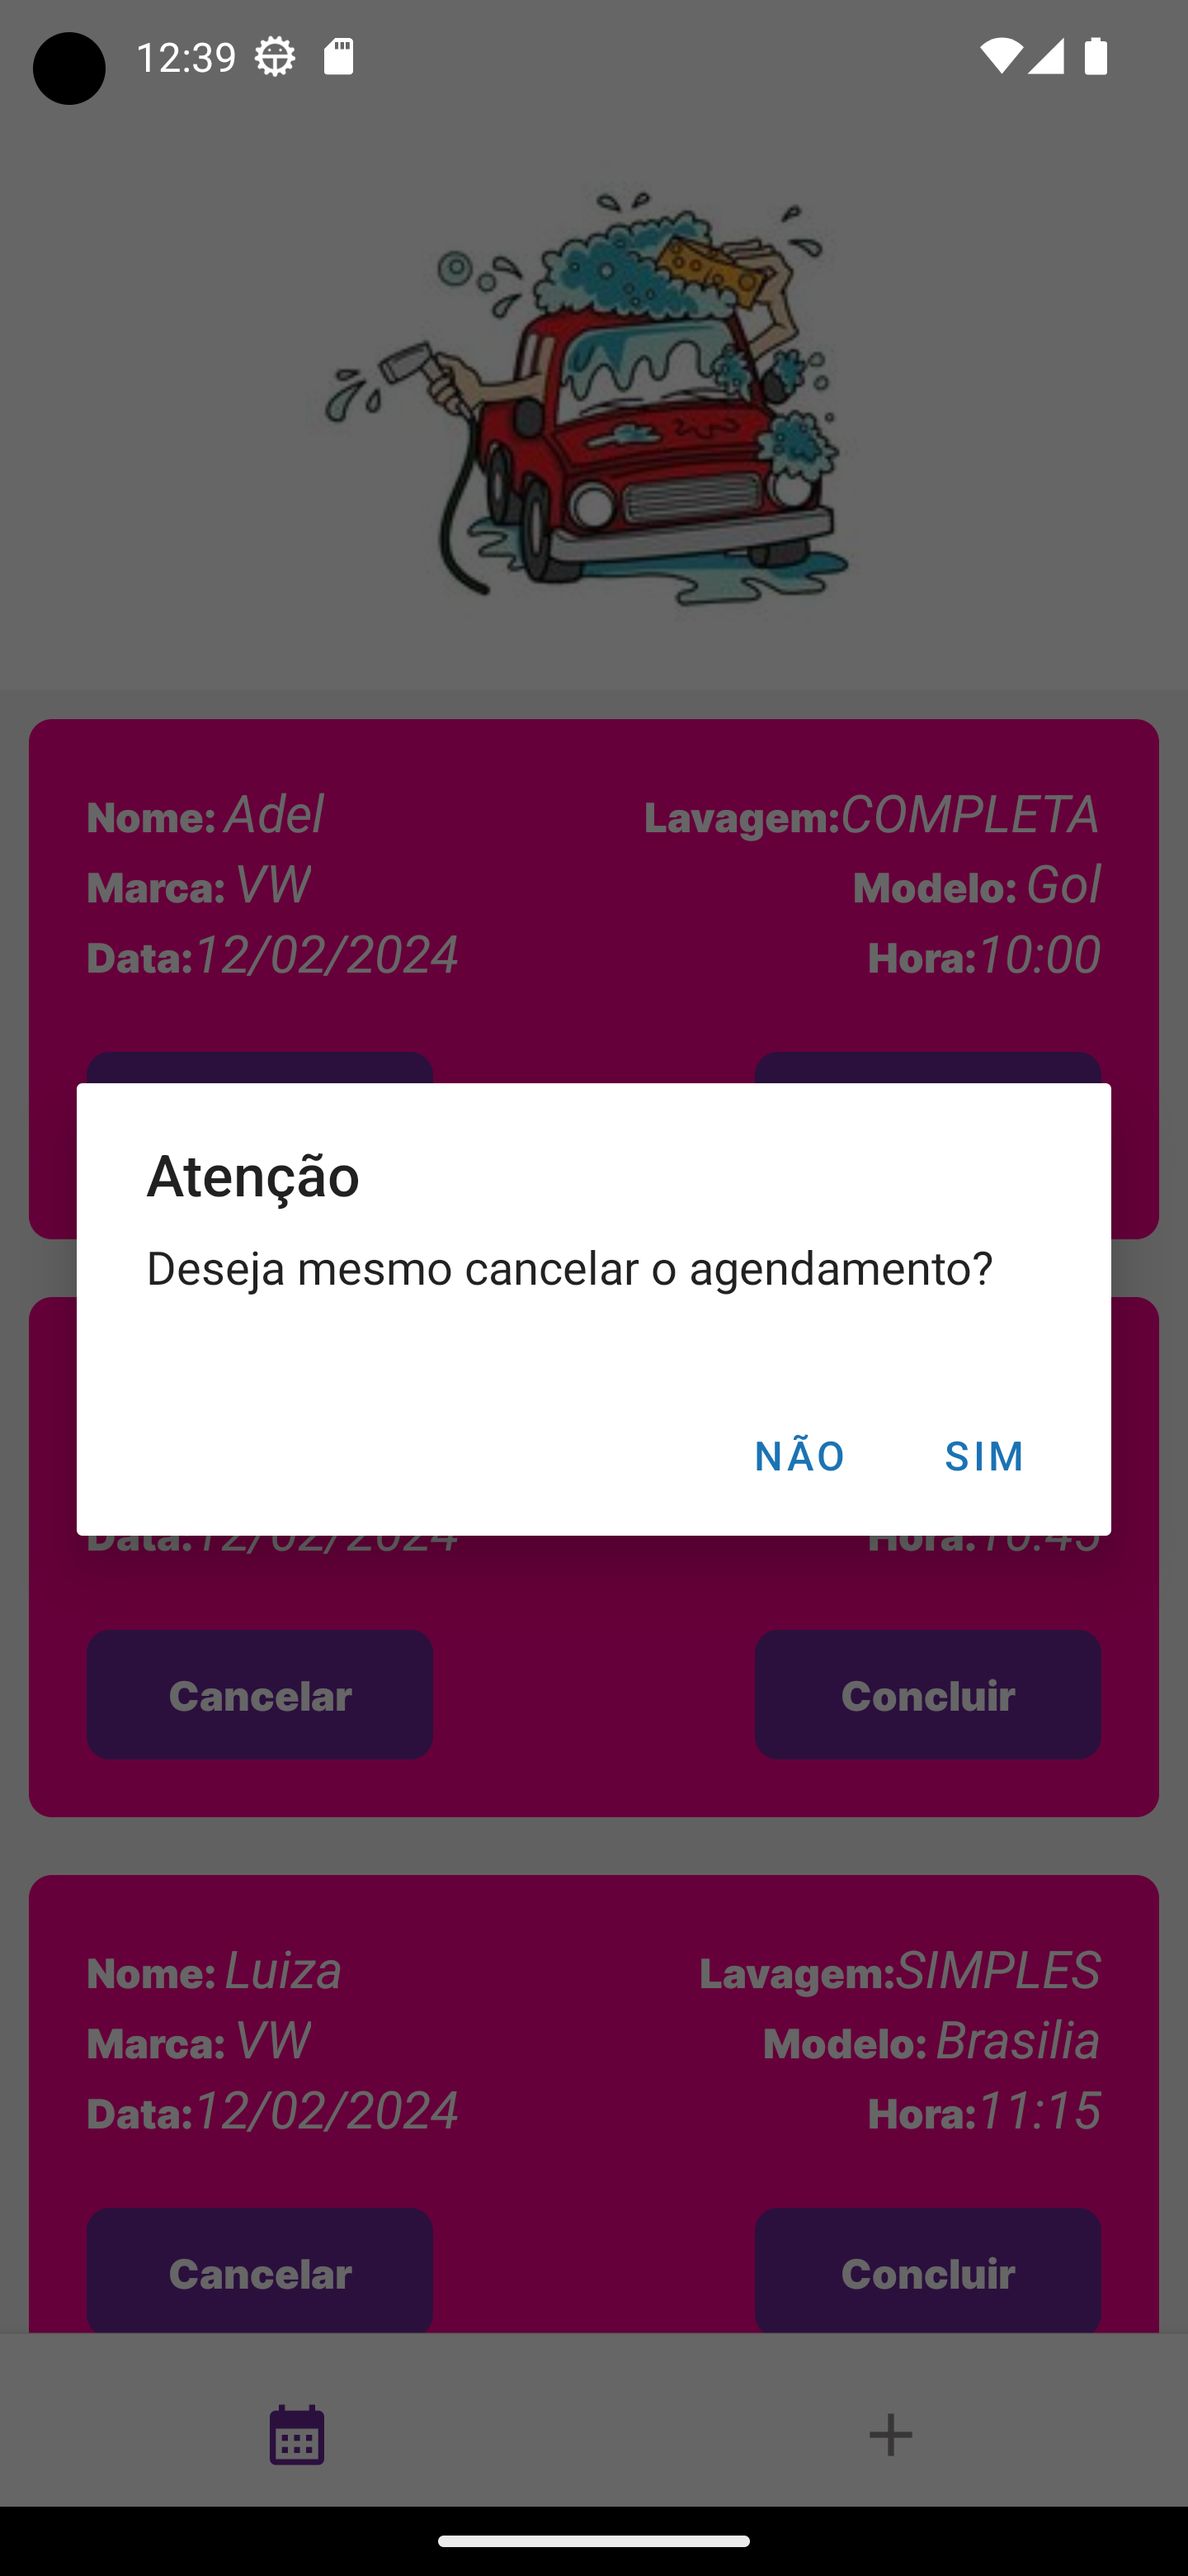
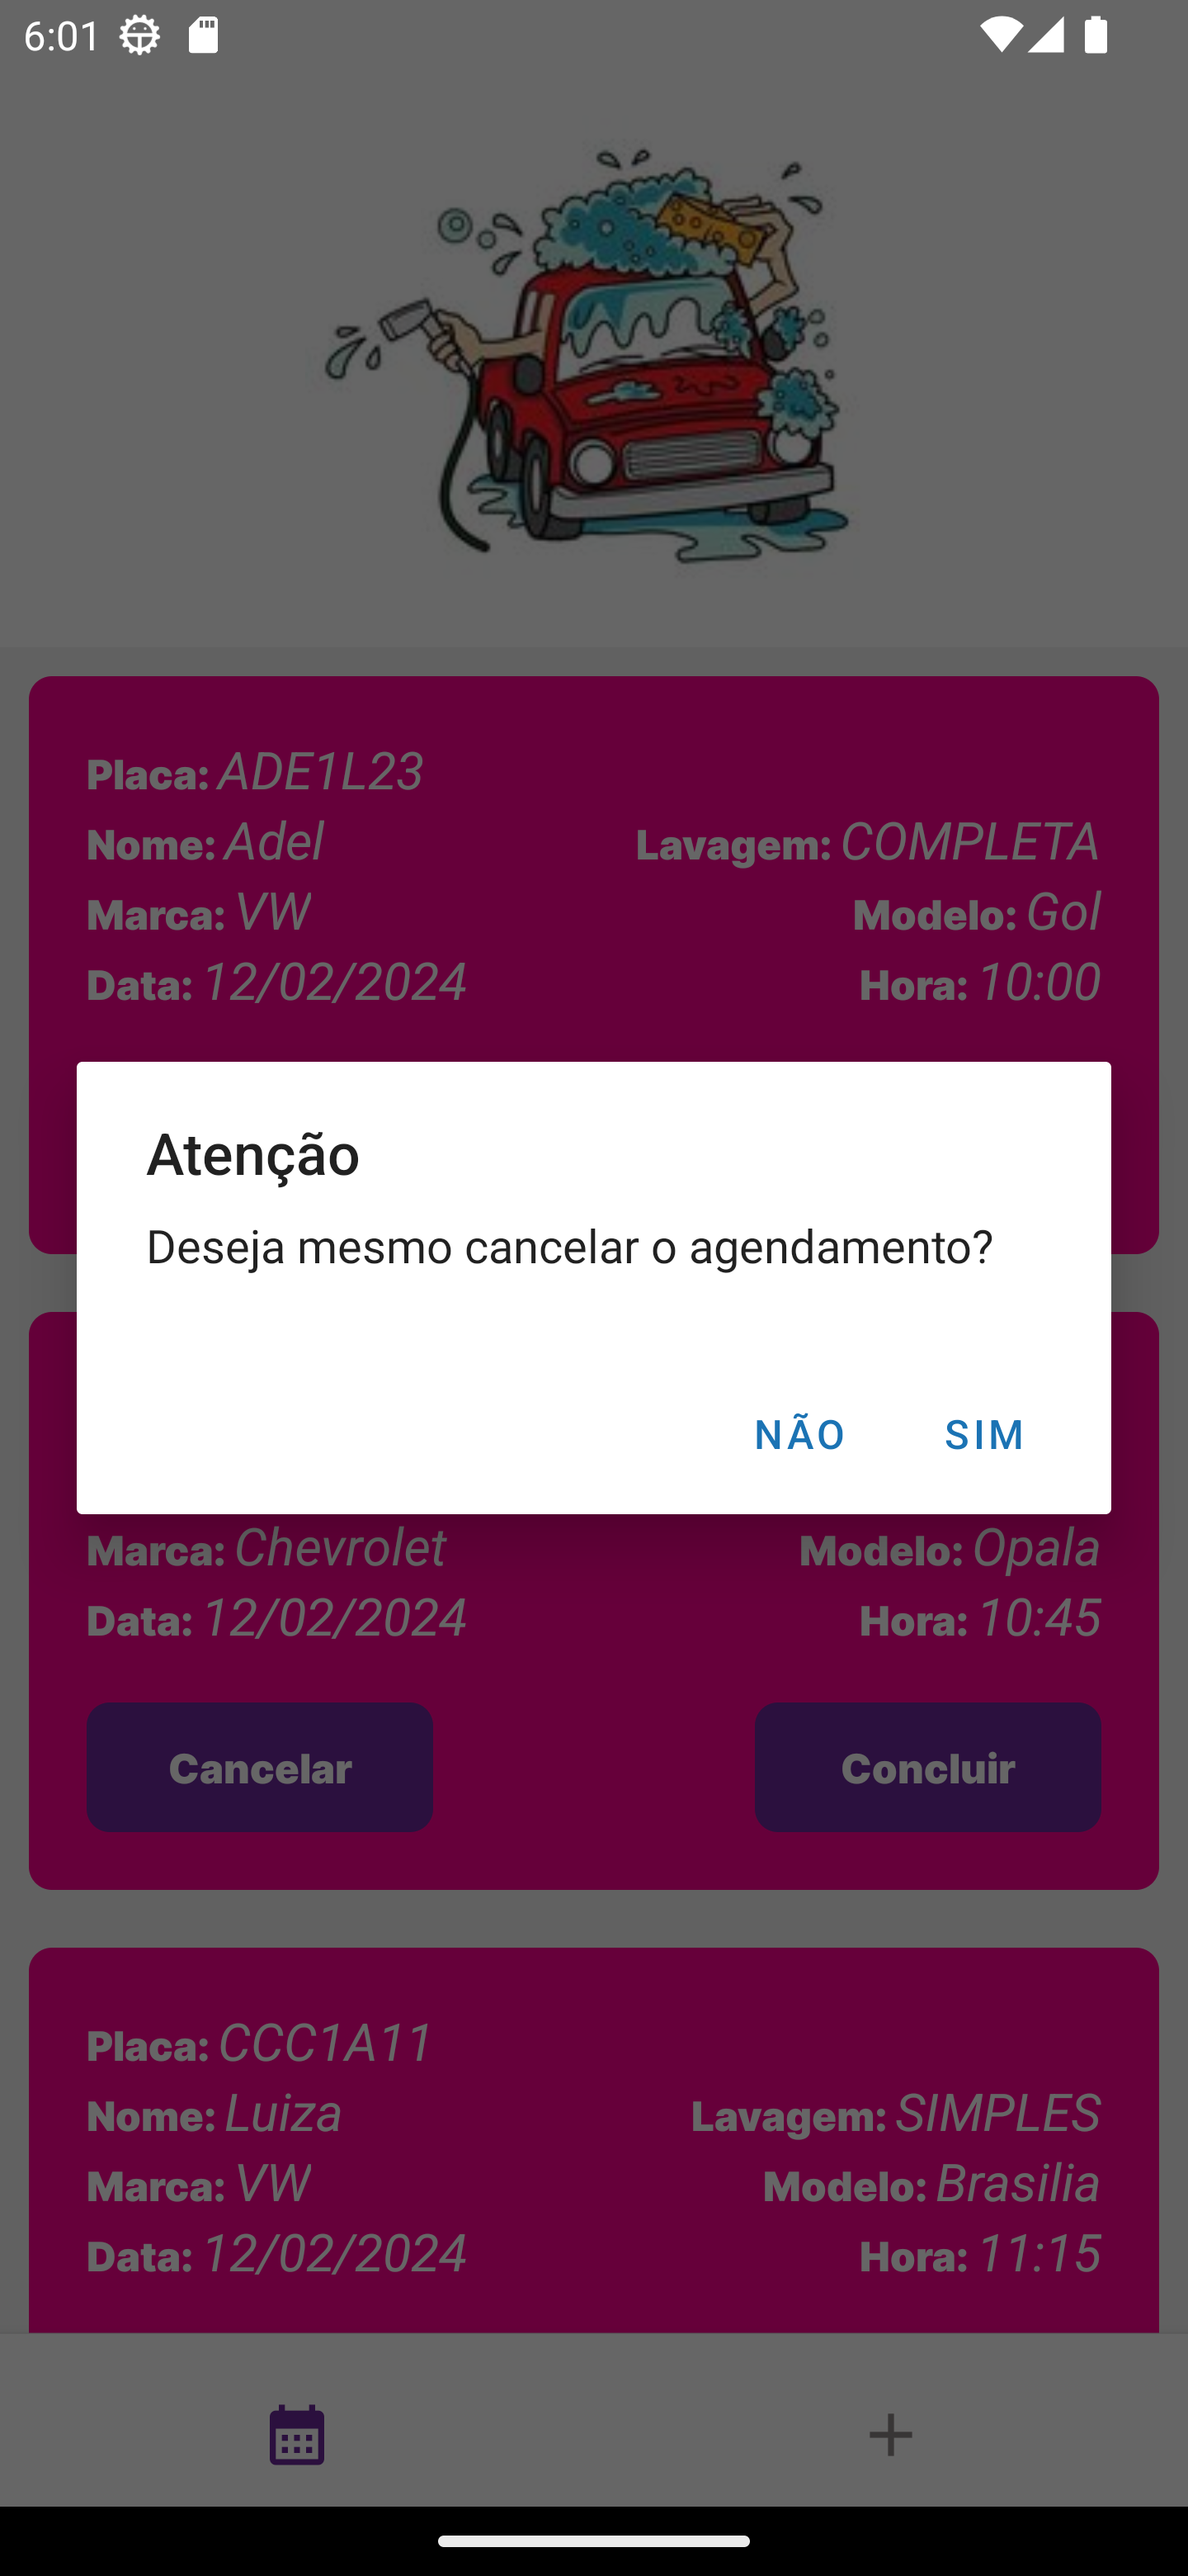
Verify has plate

diff --git a/src/components/CardSchedule/index.tsx b/src/components/CardSchedule/index.tsx
@@ -1,8 +1,8 @@
-import { Text, View, TouchableOpacity, Alert } from "react-native";
+import { Alert, Text, TouchableOpacity, View } from "react-native";
 import { Schedule } from "../../interfaces/schedule";
 
-import { styles } from "./styles";
 import { formatDate, formatHour } from "../../utils/format";
+import { styles } from "./styles";
 
 interface CardScheduleProps {
   schedule: Schedule;
@@ -40,11 +40,16 @@ export function CardSchedule({
       <View style={styles.containerInfo}>
         <View style={styles.line}>
           <Text style={styles.label}>
+            Placa: <Text style={styles.info}>{schedule.plate}</Text>
+          </Text>
+        </View>
+        <View style={styles.line}>
+          <Text style={styles.label}>
             Nome: <Text style={styles.info}>{schedule.name}</Text>
           </Text>
 
           <Text style={styles.label}>
-            Lavagem:
+            Lavagem:{" "}
             <Text style={styles.info}>{schedule.type.toUpperCase()}</Text>
           </Text>
         </View>
@@ -58,11 +63,11 @@ export function CardSchedule({
         </View>
         <View style={styles.line}>
           <Text style={styles.label}>
-            Data:
+            Data:{" "}
             <Text style={styles.info}>{formatDate(schedule.dateIni)}</Text>
           </Text>
           <Text style={styles.label}>
-            Hora:
+            Hora:{" "}
             <Text style={styles.info}>{formatHour(schedule.dateIni)}</Text>
           </Text>
         </View>

diff --git a/src/app/(tabs)/newSchedule.tsx b/src/app/(tabs)/newSchedule.tsx
@@ -21,6 +21,7 @@ import { useSchedules } from "../../hooks/schedules";
 import { Schedule } from "../../interfaces/schedule";
 import { useSchedulingStore } from "../../store/scheduling";
 import { getDateEnd } from "../../utils/getDateEnd";
+import { verifyHasPlate } from "../../utils/verifyHasPlate";
 
 const schema = z.object({
   name: z
@@ -118,6 +119,11 @@ export default function NewSchedule() {
 
     if (schedulingsOfHour.length > 0) {
       return showAlert("Horario indisponivel.");
+    }
+
+    const hasSchedule = verifyHasPlate(newData.plate, schedules);
+    if (hasSchedule) {
+      return showAlert("Esse veiculo já esta agendado.");
     }
 
     const created = await createScheduling(newData);

diff --git a/src/components/CardSchedule/styles.ts b/src/components/CardSchedule/styles.ts
@@ -3,7 +3,7 @@ import { StyleSheet } from "react-native";
 export const styles = StyleSheet.create({
   container: {
     width: "auto",
-    height: 180,
+    height: 200,
     margin: 10,
     borderRadius: 8,
     backgroundColor: "#ff0090",

diff --git a/src/utils/verifyHasPlate.ts b/src/utils/verifyHasPlate.ts
@@ -1,0 +1,6 @@
+import { Schedule } from "../interfaces/schedule";
+
+export function verifyHasPlate(plate: string, schedules: Schedule[]) {
+  const filtered = schedules.find((schedule) => schedule.plate === plate);
+  return !!filtered;
+}

diff --git a/README.md b/README.md
@@ -71,4 +71,6 @@ $ npx expo start
  <img alt="agendamento-fora-horario" src="https://github.com/Adelblande/scheduling-app/blob/main/images/agendamento-fora-horario.png" width="200px">
 
  <img alt="agendamento-fora-horario" src="https://github.com/Adelblande/scheduling-app/blob/main/images/agendamento-fora-horario.png" width="200px">
+
+ <img alt="veiculo-agendado" src="https://github.com/Adelblande/scheduling-app/blob/main/images/veiculo-agendado.png" width="200px">
 </p>
